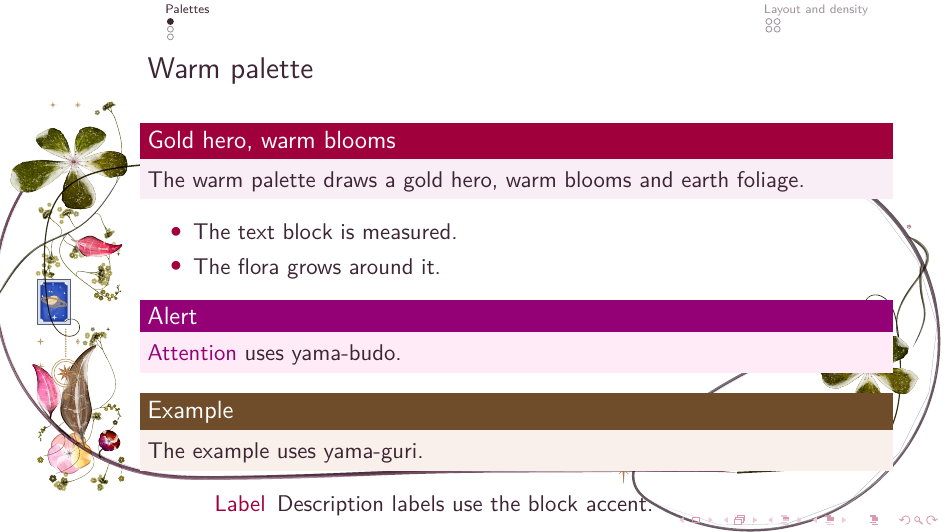
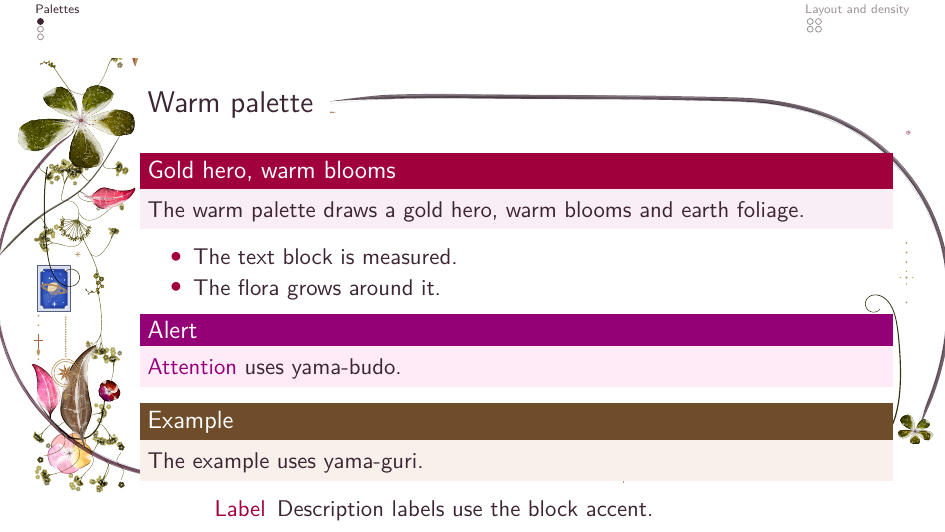
docs: refresh screenshots and add the long-title example
Regenerate all screenshots against the final theme and engine; use a fictional Linnaeus-inspired long title for the title-length example. Document body and margin header modes.

diff --git a/test/titles.tex b/test/titles.tex
@@ -8,15 +8,15 @@
 
 \begin{document}
 
-\title{Democracy and Political Participation Across Borders: A Minor Field Study Concerning Migrant Transnationalism and the Nepali Diaspora in Varanasi, India}
-\subtitle{}
+\title{Omnia mirari etiam tritissima: On the ordering of nature, the place of humans, and the art of wondering at ordinary things}
+\subtitle{A deliberately long title for typesetting and floral-margin testing}
 \florathispage{layout=left, density=2.0, mix={leaves=3, leaflets=3, sprays=3, bloom=3}, tune={gesture={top_inset=0}}}
 \begin{frame}[plain]
   \titlepage
 \end{frame}
 
-\title{Practical strategies for addressing social sciences and humanities compilation thesis challenges}
-\subtitle{CoPhS 2024 $\rightarrow$ Forskarhandledarutbildning vid Linnéuniversitetet}
+\title{Natura non facit saltus: On classification, variation, and the boundaries between living things}
+\subtitle{Another long title, this time with a shorter frame}
 \florathispage{layout=left, density=2.0, mix={leaves=3, leaflets=3, sprays=3, bloom=3}, tune={gesture={top_inset=0}}}
 \begin{frame}[plain]
   \titlepage

diff --git a/docs/src/stock-default.tex b/docs/src/stock-default.tex
@@ -1,7 +1,7 @@
 \documentclass[aspectratio=169]{beamer}
 % beamer default
 \usepackage{beamer-floral}
-\florasetup{layout=surround, seed=3, density=1.2, tune={gesture={top_inset=28}}}
+\florasetup{layout=surround, seed=3, density=1.2}
 \setbeamersize{text margin left=2.5cm, text margin right=1cm}
 \title{beamer-floral with default}
 \subtitle{A stock theme keeps its colours}
@@ -9,7 +9,7 @@
 \institute{beamer-floral}
 \date{}
 \begin{document}
-\begin{frame}\titlepage\end{frame}
+\begin{frame}[plain]\titlepage\end{frame}
 \section{Stock themes}\subsection{default}
 \begin{frame}
   \frametitle{Floral with default}
@@ -18,7 +18,7 @@
   \end{block}
   \begin{itemize}
     \item The flora grows around the measured text block.
-    \item Set \texttt{gesture.top\_inset} when the theme has no header bar.
+    \item The package measures the frame title and starts below it.
   \end{itemize}
   \begin{alertblock}{Alert}
     The alert colour comes from the stock theme.

diff --git a/docs/src/stock-Berlin.tex b/docs/src/stock-Berlin.tex
@@ -1,7 +1,7 @@
 \documentclass[aspectratio=169]{beamer}
 \usetheme{Berlin}
 \usepackage{beamer-floral}
-\florasetup{layout=surround, seed=3, density=1.2, tune={gesture={top_inset=48}}}
+\florasetup{layout=surround, seed=3, density=1.2}
 \setbeamersize{text margin left=2.5cm, text margin right=1cm}
 \title{beamer-floral with Berlin}
 \subtitle{A stock theme keeps its colours}
@@ -9,7 +9,7 @@
 \institute{beamer-floral}
 \date{}
 \begin{document}
-\begin{frame}\titlepage\end{frame}
+\begin{frame}[plain]\titlepage\end{frame}
 \section{Stock themes}\subsection{Berlin}
 \begin{frame}
   \frametitle{Floral with Berlin}
@@ -18,7 +18,7 @@
   \end{block}
   \begin{itemize}
     \item The flora grows around the measured text block.
-    \item Set \texttt{gesture.top\_inset} when the theme has no header bar.
+    \item The package measures the frame title and starts below it.
   \end{itemize}
   \begin{alertblock}{Alert}
     The alert colour comes from the stock theme.

diff --git a/docs/src/stock-Madrid.tex b/docs/src/stock-Madrid.tex
@@ -1,7 +1,7 @@
 \documentclass[aspectratio=169]{beamer}
 \usetheme{Madrid}
 \usepackage{beamer-floral}
-\florasetup{layout=surround, seed=3, density=1.2, tune={gesture={top_inset=48}}}
+\florasetup{layout=surround, seed=3, density=1.2}
 \setbeamersize{text margin left=2.5cm, text margin right=1cm}
 \title{beamer-floral with Madrid}
 \subtitle{A stock theme keeps its colours}
@@ -9,7 +9,7 @@
 \institute{beamer-floral}
 \date{}
 \begin{document}
-\begin{frame}\titlepage\end{frame}
+\begin{frame}[plain]\titlepage\end{frame}
 \section{Stock themes}\subsection{Madrid}
 \begin{frame}
   \frametitle{Floral with Madrid}
@@ -18,7 +18,7 @@
   \end{block}
   \begin{itemize}
     \item The flora grows around the measured text block.
-    \item Set \texttt{gesture.top\_inset} when the theme has no header bar.
+    \item The package measures the frame title and starts below it.
   \end{itemize}
   \begin{alertblock}{Alert}
     The alert colour comes from the stock theme.

diff --git a/docs/src/showcase.tex b/docs/src/showcase.tex
@@ -11,8 +11,8 @@
 
 \begin{document}
 
-\florathispage{tune={gesture={top_inset=0}}}
-\begin{frame}
+\florathispage{layout=left, density=2.0, mix={leaves=3, leaflets=3, sprays=3, bloom=3}, tune={gesture={top_inset=0}}}
+\begin{frame}[plain]
   \titlepage
 \end{frame}
 

diff --git a/README.md b/README.md
@@ -9,9 +9,9 @@ grows around the content and the margin follows the page.
 
 - LuaLaTeX
 - the [krissen/tikz-flora](https://github.com/krissen/tikz-flora) fork,
-  branch `beamer-floral`, commit `4dd4812` or later. The upstream engine
-  predates the beamer hooks and tune keys this package uses. CI pins
-  `818e50d`.
+  branch `beamer-floral`, commit `2c1fc8e` or later. The upstream engine
+  lacks the header modes and tune keys this package uses. CI pins the same
+  commit.
 
 For a local checkout, point `TIKZFLORA` at it, or put the path in a
 gitignored `.env`:
@@ -90,32 +90,44 @@ Load the stock theme first and beamer-floral after it:
 ```tex
 \usetheme{Madrid}
 \usepackage{beamer-floral}
-\florasetup{layout=surround, seed=3,
-  tune={gesture={top_inset=48}}}
+\florasetup{seed=3, density=1.2}
 ```
 
-The stock theme keeps its own header, block, alert and example colours;
-beamer-floral adds the plants and the palette. Set `gesture.top_inset` so
-the crown starts below the header bar. Themes without a header bar need a
-smaller inset; the default theme works with 28:
+The package defaults to `header=body`: it measures the frame title and
+starts the flora below it, while the stock theme keeps its own header,
+block, alert and example colours. The border and stems are the floral
+package's own.
+
+Use `header=margin` when the theme leaves room in the left margin and you
+want the hero beside the title instead:
 
 ```tex
-\florasetup{tune={gesture={top_inset=28}}}
+\florasetup{header=margin, layout=surround}
 ```
+
+`\usetheme{floral}` selects margin mode itself.
 
 ![Madrid with beamer-floral](docs/img/stock-madrid.png)
 
-*Madrid keeps its blue header and block colours; the flora grows around the
-text block.*
+*Madrid keeps its blue header and block colours; the flora starts below the
+frame title.*
 
 ![Berlin with beamer-floral](docs/img/stock-berlin.png)
 
-*Berlin keeps its headline and footline; the flora fills the side margins.*
+*Berlin keeps its headline and footline; the flora fills the side margins
+below the title.*
 
 ![Default beamer with beamer-floral](docs/img/stock-default.png)
 
-*The default theme with `top_inset=28`: the crown sits between the frame
-title and the first block.*
+*The default theme with body mode: the border starts below the title.*
+
+## Long titles
+
+![A long Linné-inspired title](docs/img/title-long.png)
+
+*Titles wrap inside the title block. The flora is measured against the text
+and grows around it; this deliberately long Linné-inspired title leaves the
+border in the margins.*
 
 ## Settings
 
